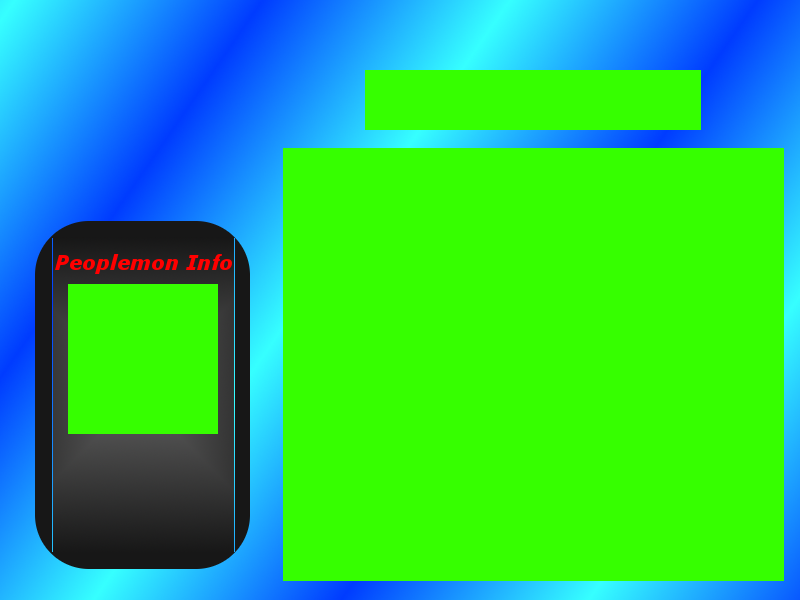
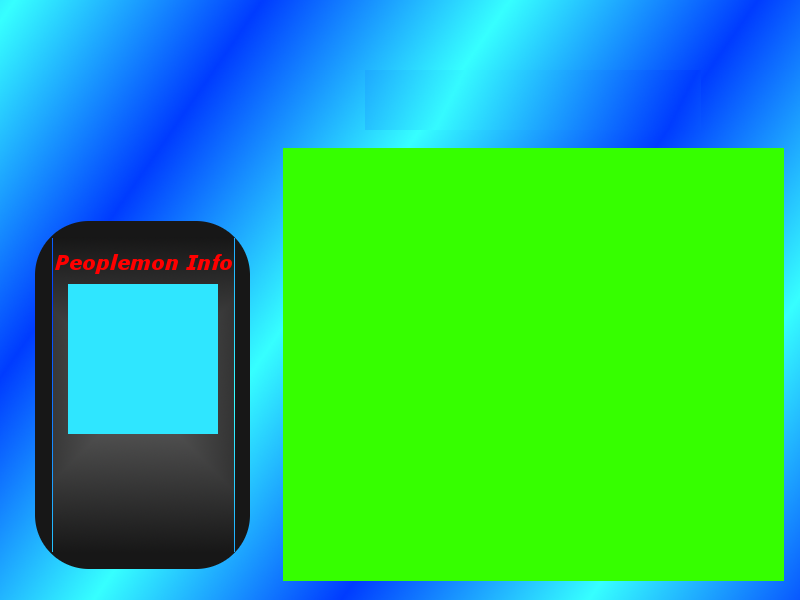
Fixed text size/location in storage system. Fixed depositing people so that it actually let you. Fixed the line of green pixels in the title. Fixed the information updating when you're over a peoplemon

Changed region(s): [[0.4375, 0.09, 0.875, 0.24], [0.0625, 0.45, 0.2812, 0.75]]

diff --git a/src/Game/StorageSystem.cpp b/src/Game/StorageSystem.cpp
@@ -52,11 +52,11 @@ StorageSystem::StorageSystem(Game* g, vector<StoredPeoplemon>* ppl) : Gamestate(
         box[i].setPosition(283,148);
     }
 
-    name.setPosition(Vector2f(70,445));
+    name.setPosition(Vector2f(70,440));
     name.setProps(Color::White,22);
-    level.setPosition(Vector2f(70,480));
+    level.setPosition(Vector2f(70,495));
     level.setProps(Color::White,20);
-    item.setPosition(Vector2f(70,505));
+    item.setPosition(Vector2f(70,520));
     item.setProps(Color::White,20);
 }
 
@@ -100,8 +100,16 @@ int StorageSystem::getIndex(int b, int x, int y)
 
 void StorageSystem::updateMenu(int i)
 {
+	if (i==-1)
+	{
+		name.setText("");
+		level.setText("");
+		item.setText("");
+		return;
+	}
+
     name.setText(peoplemon->at(i).data.name+"\n\\"+game->peoplemonList[peoplemon->at(i).data.id].name);
-    level.setText("Level: "+peoplemon->at(i).data.level);
+    level.setText("Level: "+intToString(peoplemon->at(i).data.level));
     if (peoplemon->at(i).data.holdItem!=0)
         item.setText("Item: "+game->itemList[peoplemon->at(i).data.holdItem].name);
     else
@@ -327,6 +335,8 @@ bool StorageSystem::execute()
             updateMenu(selectedIndex);
         else if (overIndex!=-1)
             updateMenu(overIndex);
+		else
+			updateMenu(-1);
 
         game->mainWindow.draw(background);
         mainMenu.draw(&game->mainWindow);

diff --git a/version.h b/version.h
@@ -16,17 +16,17 @@ namespace AutoVersion{
 	//Standard Version Type
 	static const long MAJOR  = 9;
 	static const long MINOR  = 7;
-	static const long BUILD  = 258;
-	static const long REVISION  = 1400;
+	static const long BUILD  = 263;
+	static const long REVISION  = 1431;
 	
 	//Miscellaneous Version Types
-	static const long BUILDS_COUNT  = 3326;
-	#define RC_FILEVERSION 9,7,258,1400
-	#define RC_FILEVERSION_STRING "9, 7, 258, 1400\0"
-	static const char FULLVERSION_STRING [] = "9.7.258.1400";
+	static const long BUILDS_COUNT  = 3337;
+	#define RC_FILEVERSION 9,7,263,1431
+	#define RC_FILEVERSION_STRING "9, 7, 263, 1431\0"
+	static const char FULLVERSION_STRING [] = "9.7.263.1431";
 	
 	//These values are to keep track of your versioning state, don't modify them.
-	static const long BUILD_HISTORY  = 17;
+	static const long BUILD_HISTORY  = 22;
 	
 
 }

diff --git a/src/Game/PeoplemonState.cpp b/src/Game/PeoplemonState.cpp
@@ -56,7 +56,7 @@ bool PeoplemonState::execute()
                     return false;
                 else
                 {
-                    if (shouldReturnChoice || itemId!=-1)
+                    if (shouldReturnChoice || itemId!=-1 || choicePrompt.size()>0)
                     {
                     	sleep(milliseconds(175));
                         game->hud.getChoice(choicePrompt, vector<string>({"Yes","No"}),false);
